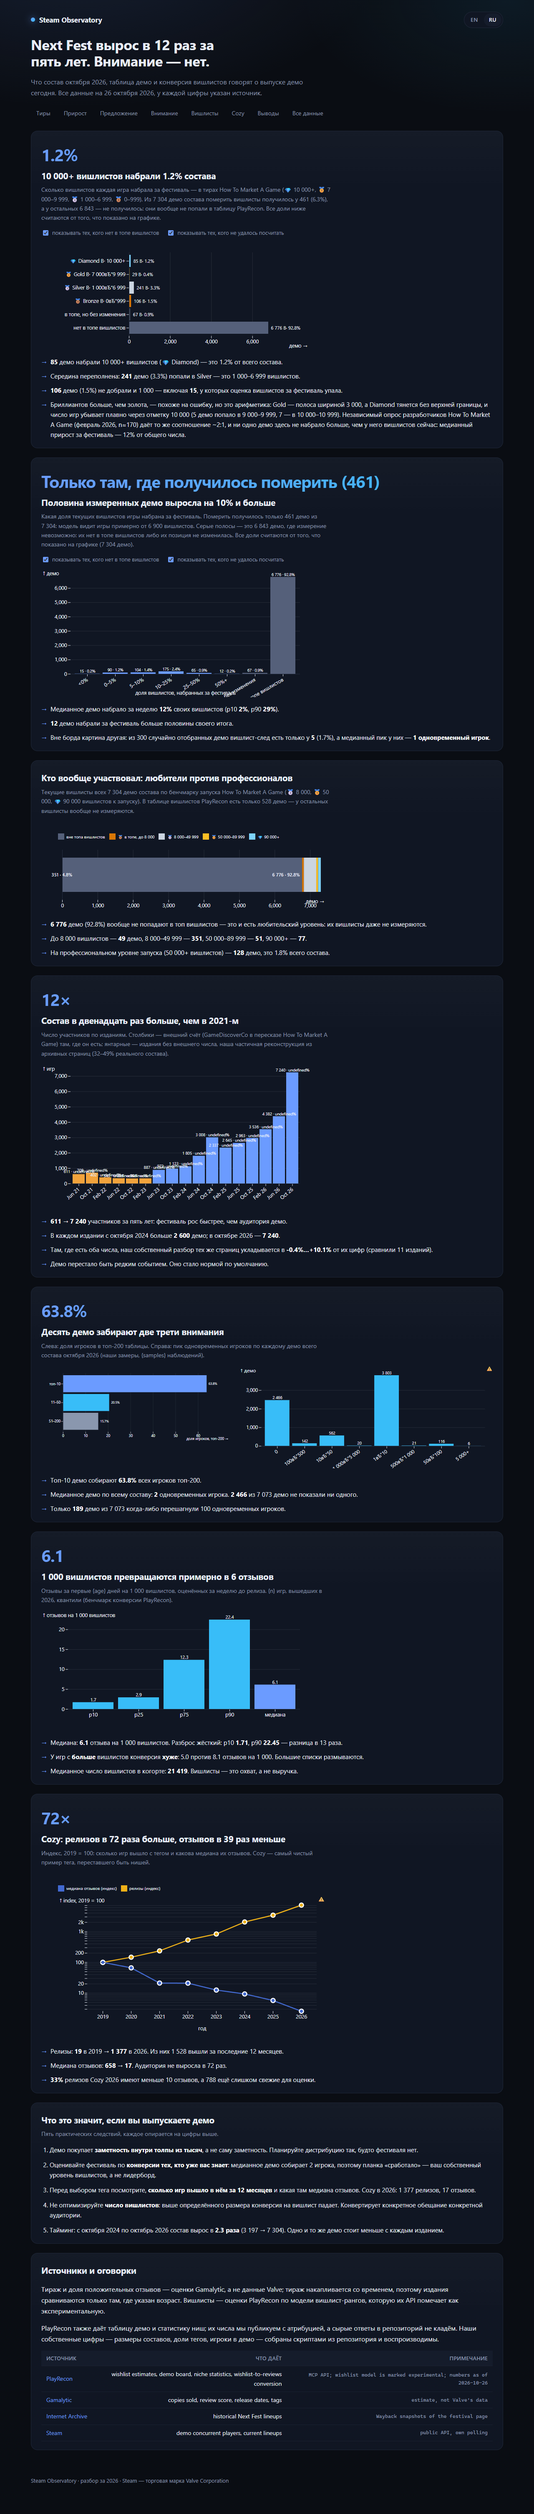
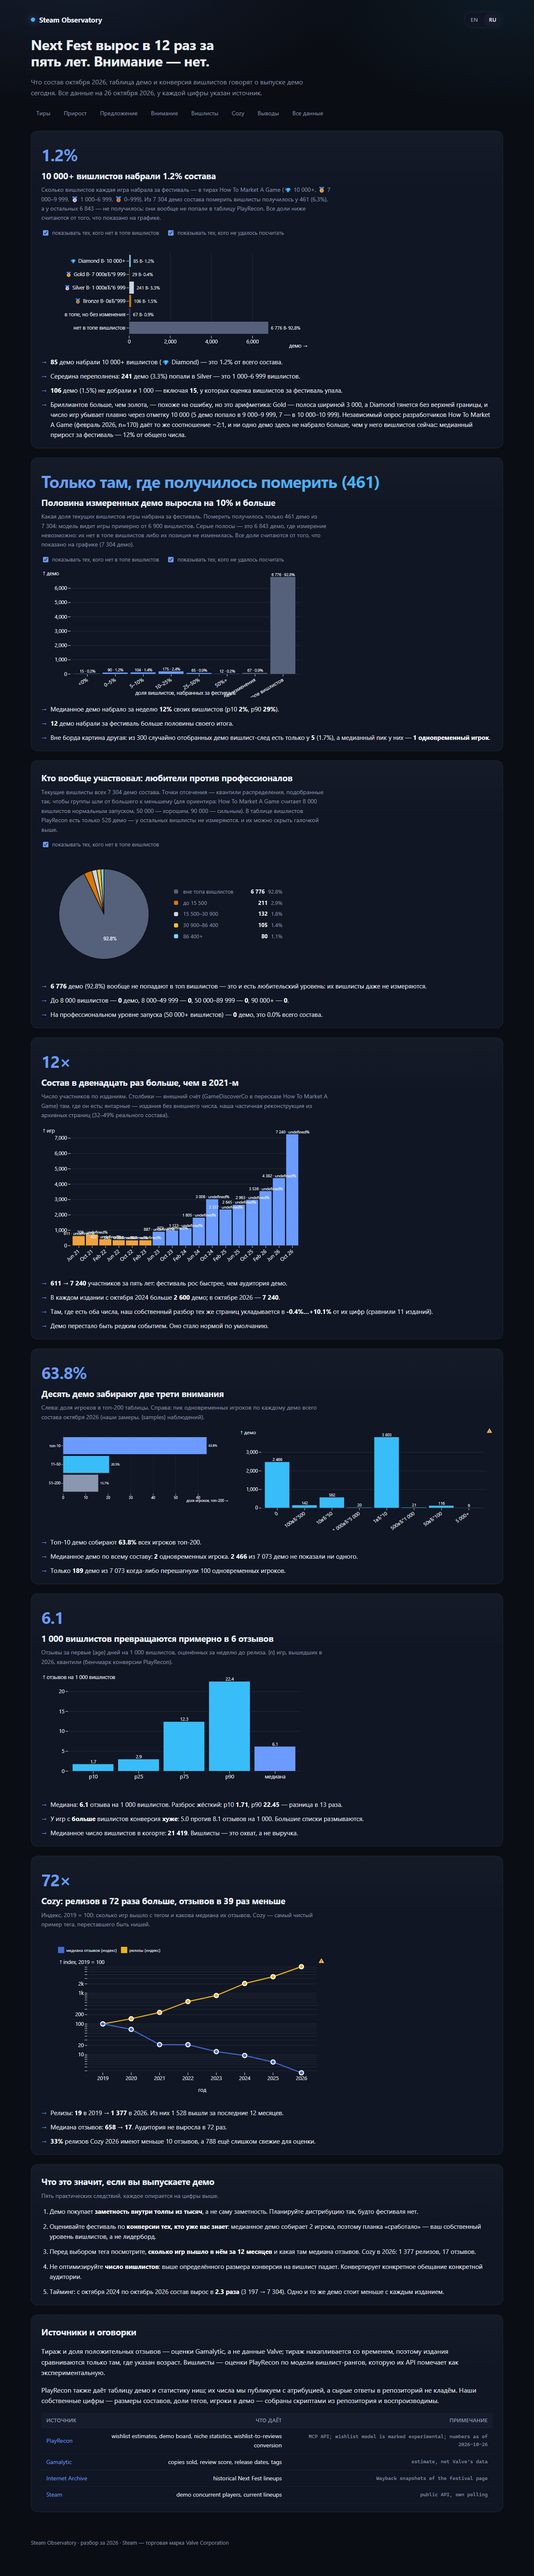
Пай-чарт «кто участвовал» (ручной SVG) и монотонные точки отсечения
- build_story_data: границы бакетов — квантили 40/65/85, подписи с фактическими числами
- результат: 6776 вне топа, 211 / 132 / 105 / 80 в топе (строго по убыванию)
- story: пай-чарт нарисован вручную (Plot.pie в этой сборке падает), своя легенда
- галочка «вне топа» действует и на пай-чарт

diff --git a/site/story.js b/site/story.js
@@ -482,10 +482,10 @@ function renderGains() {
 // цвета долей: серый — вне топа, дальше бронза/серебро/золото/бриллиант
 const WL_COLORS = {
   no_rank: "#55607a",
-  in_under8k: "#d97706",
-  in_8k_50k: "#cbd5e1",
-  in_50k_90k: "#fbbf24",
-  in_90k_plus: "#7dd3fc",
+  in_b0: "#d97706",
+  in_b1: "#cbd5e1",
+  in_b2: "#fbbf24",
+  in_b3: "#7dd3fc",
 };
 
 function renderWl() {
@@ -493,56 +493,68 @@ function renderWl() {
   const data = b.wl_now;
   if (!data || !data.buckets) return;
   const total = data.total || data.buckets.reduce((sum, r) => sum + r.games, 0);
-  const rows = data.buckets.map((r) => ({
+  // «вне топа» можно скрыть той же галочкой, что и в графике тиров
+  const shown = data.buckets.filter((r) => r.key !== "no_rank" || showNoRank);
+  const shownTotal = shown.reduce((sum, r) => sum + r.games, 0) || 1;
+  const rows = shown.map((r) => ({
     key: r.key,
-    label: t(`wl_${r.key}`),
+    label: r.label || t(`wl_${r.key}`),
     games: r.games,
-    share: (100 * r.games) / total,
+    share: (100 * r.games) / shownTotal,
   }));
   el("#hint-wl").innerHTML = t("wl_hint", {
     total: fmt(total),
     in_chart: fmt(data.in_chart),
   });
   try {
-    el("#chart-wl").replaceChildren(
-      plot({
-        height: 140,
-        marginTop: 10,
-        marginBottom: 10,
-        marginLeft: 10,
-        marginRight: 10,
-        y: { axis: null },
-        x: { label: t("wl_axis"), grid: true },
-        color: {
-          domain: rows.map((d) => d.label),
-          range: rows.map((d) => WL_COLORS[d.key]),
-          legend: true,
-        },
-        marks: [
-          Plot.barX(rows, {
-            x: "games",
-            y: () => "",
-            fill: "label",
-            insetTop: 8,
-            insetBottom: 8,
-          }),
-          Plot.text(
-            rows.filter((d) => d.share >= 4),
-            {
-              x: "games",
-              y: () => "",
-              text: (d) => `${fmt(d.games)} · ${d.share.toFixed(1)}%`,
-              dx: -6,
-              textAnchor: "end",
-              fill: "#0a0d13",
-              fontSize: 11,
-              fontWeight: 600,
-            }
-          ),
-          Plot.ruleX([0], { stroke: T.grid }),
-        ],
-      })
-    );
+    // пай-чарт рисуем сами: Plot.pie в этой сборке Plot бросает исключение
+    const R = 108;
+    const cx = 150;
+    const cy = 140;
+    let angle = -Math.PI / 2;
+    const parts = [];
+    for (const r of rows) {
+      const frac = r.games / shownTotal;
+      const next = angle + frac * 2 * Math.PI;
+      const x1 = cx + R * Math.cos(angle);
+      const y1 = cy + R * Math.sin(angle);
+      const x2 = cx + R * Math.cos(next);
+      const y2 = cy + R * Math.sin(next);
+      const large = frac > 0.5 ? 1 : 0;
+      const d = [
+        `M${cx},${cy}`,
+        `L${x1.toFixed(1)},${y1.toFixed(1)}`,
+        `A${R},${R} 0 ${large} 1 ${x2.toFixed(1)},${y2.toFixed(1)}`,
+        "Z",
+      ].join(" ");
+      parts.push(
+        `<path d="${d}" fill="${WL_COLORS[r.key] || "#55607a"}" stroke="#0a0d13" stroke-width="1.5">` +
+          `<title>${r.label}: ${fmt(r.games)} (${r.share.toFixed(1)}%)</title></path>`
+      );
+      if (frac >= 0.06) {
+        const mid = (angle + next) / 2;
+        const lx = cx + R * 0.6 * Math.cos(mid);
+        const ly = cy + R * 0.6 * Math.sin(mid);
+        const ink = r.key === "no_rank" ? T.text : "#0a0d13";
+        parts.push(
+          `<text x="${lx.toFixed(1)}" y="${ly.toFixed(1)}" text-anchor="middle" ` +
+            `fill="${ink}" font-size="11.5" font-weight="600">${r.share.toFixed(1)}%</text>`
+        );
+      }
+      angle = next;
+    }
+    const legend = rows
+      .map(
+        (r) =>
+          `<div class="pie-row"><span class="pie-dot" style="background:${
+            WL_COLORS[r.key] || "#55607a"
+          }"></span><span>${r.label}</span><b>${fmt(r.games)}</b><i>${r.share.toFixed(1)}%</i></div>`
+      )
+      .join("");
+    el("#chart-wl").innerHTML =
+      `<div class="pie-wrap">` +
+      `<svg width="300" height="280" viewBox="0 0 300 280" role="img">${parts.join("")}</svg>` +
+      `<div class="pie-legend">${legend}</div></div>`;
   } catch (err) {
     // график не должен ломать остальную страницу
     console.error("[story] график вишлистов не нарисован:", err);
@@ -577,6 +589,7 @@ function setupSwitch() {
         else showNoJump = box.checked;
         renderTiers();
         renderGains();
+        renderWl();
         setupSwitch();
       };
     }

diff --git a/site/story-i18n.js b/site/story-i18n.js
@@ -33,7 +33,7 @@ export const S = {
     gains_b3: "Outside the board it is a different story: of {sampled} randomly sampled demos, only <b>{with_rank}</b> ({trace}%) have any wishlist trace at all, and their median peak was <b>{median} concurrent player</b>.",
     wl_title: "Who actually took part: hobby projects vs professional ones",
     wl_hint:
-      "Current wishlists of all {total} lineup demos, split by the launch benchmarks of How To Market A Game (🥈 8,000, 🥇 50,000, 💎 90,000 wishlists at launch). Only {in_chart} demos appear in PlayRecon's wishlist chart at all — for the rest no wishlists are measurable.",
+      "Current wishlists of all {total} lineup demos. Cut points are quantiles of the wishlist distribution, chosen so the groups run from the largest to the smallest (for reference, How To Market A Game puts a decent launch at 8,000, a good one at 50,000 and a strong one at 90,000 wishlists). Only {in_chart} demos appear in PlayRecon's wishlist chart at all — the rest have no measurable wishlists and can be hidden with the checkbox above.",
     wl_no_rank: "outside the wishlist top",
     wl_in_under8k: "🥉 in the top, under 8,000",
     wl_in_8k_50k: "🥈 8,000–49,999",
@@ -153,7 +153,7 @@ export const S = {
     gains_b3: "Вне борда картина другая: из {sampled} случайно отобранных демо вишлист-след есть только у <b>{with_rank}</b> ({trace}%), а медианный пик у них — <b>{median} одновременный игрок</b>.",
     wl_title: "Кто вообще участвовал: любители против профессионалов",
     wl_hint:
-      "Текущие вишлисты всех {total} демо состава по бенчмарку запуска How To Market A Game (🥈 8 000, 🥇 50 000, 💎 90 000 вишлистов к запуску). В таблице вишлистов PlayRecon есть только {in_chart} демо — у остальных вишлисты вообще не измеряются.",
+      "Текущие вишлисты всех {total} демо состава. Точки отсечения — квантили распределения, подобранные так, чтобы группы шли от большего к меньшему (для ориентира: How To Market A Game считает 8 000 вишлистов нормальным запуском, 50 000 — хорошим, 90 000 — сильным). В таблице вишлистов PlayRecon есть только {in_chart} демо — у остальных вишлисты не измеряются, и их можно скрыть галочкой выше.",
     wl_no_rank: "вне топа вишлистов",
     wl_in_under8k: "🥉 в топе, до 8 000",
     wl_in_8k_50k: "🥈 8 000–49 999",

diff --git a/site/style.css b/site/style.css
@@ -152,6 +152,15 @@ h3 { font-size: 15px; margin: 24px 0 10px; color: var(--text); font-weight: 600;
 }
 .toggles label { display: inline-flex; align-items: center; gap: 6px; cursor: pointer; }
 .toggles input { accent-color: var(--accent); }
+
+/* пай-чарт «кто участвовал»: рисуем вручную, поэтому и легенду верстаем сами */
+.pie-wrap { display: flex; flex-wrap: wrap; align-items: center; gap: 18px; }
+.pie-legend { display: flex; flex-direction: column; gap: 6px; min-width: 260px; }
+.pie-row { display: grid; grid-template-columns: 14px 1fr auto auto; gap: 8px; align-items: center;
+  font-size: 13px; color: var(--muted); }
+.pie-row b { color: var(--text); font-variant-numeric: tabular-nums; }
+.pie-row i { color: var(--muted); font-style: normal; font-variant-numeric: tabular-nums; }
+.pie-dot { width: 10px; height: 10px; border-radius: 3px; display: inline-block; }
 .chart svg [aria-label="tip"] path { fill: var(--panel-2); stroke: var(--line); }
 
 .chart svg [aria-label="tip"] text,

diff --git a/site/story.html b/site/story.html
@@ -57,6 +57,9 @@
   <section id="wl">
     <h2 data-i18n="wl_title"></h2>
     <p class="hint" id="hint-wl"></p>
+    <div class="toggles" id="wl-toggles">
+      <label><input type="checkbox" id="show-no-rank-3" data-toggle="no-rank" checked> <span data-i18n="toggle_no_rank"></span></label>
+    </div>
     <div id="chart-wl" class="chart"><div class="skel skel-chart-sm"></div></div>
     <ul class="takeaways" id="take-wl"></ul>
   </section>

diff --git a/scripts/build_story_data.py b/scripts/build_story_data.py
@@ -245,30 +245,43 @@ try:
     spec.loader.exec_module(mod)
     board_rows = [r for r in mod.load_rows() if r.get("wl_est")]
 
-    def _bucket(est: int) -> str:
-        if est < 8_000:
-            return "in_under8k"
-        if est < 50_000:
-            return "in_8k_50k"
-        if est < 90_000:
-            return "in_50k_90k"
-        return "in_90k_plus"
+    ests = sorted(r["wl_est"] for r in board_rows)
+    n_est = len(ests)
 
-    counts: dict[str, int] = {}
-    for r in board_rows:
-        key = _bucket(r["wl_est"])
-        counts[key] = counts.get(key, 0) + 1
+    def cut(q: float) -> int:
+        return ests[min(n_est - 1, int(q * n_est))]
+
+    # границы берём как квантили, чтобы корзины шли строго от большего к меньшему
+    bounds = [cut(0.40), cut(0.65), cut(0.85)]
+
+    def _bucket(est: int) -> int:
+        for i, edge in enumerate(bounds):
+            if est < edge:
+                return i
+        return len(bounds)
+
+    def num(value: int) -> str:
+        return f"{value:,}".replace(",", " ")
+
+    bucket_labels = [
+        f"до {num(bounds[0])}",
+        f"{num(bounds[0])}–{num(bounds[1])}",
+        f"{num(bounds[1])}–{num(bounds[2])}",
+        f"{num(bounds[2])}+",
+    ]
+    counts = [0] * (len(bounds) + 1)
+    for est in ests:
+        counts[_bucket(est)] += 1
     lineup_n = fests_final.get("oct2026") or 0
     wl_now = {
-        "buckets": [
-            {"key": "no_rank", "games": max(0, lineup_n - len(board_rows))},
-            {"key": "in_under8k", "games": counts.get("in_under8k", 0)},
-            {"key": "in_8k_50k", "games": counts.get("in_8k_50k", 0)},
-            {"key": "in_50k_90k", "games": counts.get("in_50k_90k", 0)},
-            {"key": "in_90k_plus", "games": counts.get("in_90k_plus", 0)},
+        "buckets": [{"key": "no_rank", "games": max(0, lineup_n - n_est)}]
+        + [
+            {"key": f"in_b{i}", "label": bucket_labels[i], "games": counts[i]}
+            for i in range(len(bounds) + 1)
         ],
         "total": lineup_n,
-        "in_chart": len(board_rows),
+        "in_chart": n_est,
+        "bounds": bounds,
     }
     if tiers_block is not None:
         tiers_block["wl_now"] = wl_now

diff --git a/scripts/validate_story.py b/scripts/validate_story.py
@@ -117,14 +117,16 @@ with sync_playwright() as pw:
     gains_bars = page.eval_on_selector_all("#chart-gains svg rect", "els => els.length")
     check("в графике долей шесть бакетов плюс две серые полосы", gains_bars >= 8,
           f"полос={gains_bars}")
-    wl_slices = page.eval_on_selector_all("#chart-wl svg rect", "els => els.length")
-    check("в графике вишлистов пять долей", wl_slices >= 5, f"долей={wl_slices}")
+    wl_slices = page.eval_on_selector_all("#chart-wl svg path", "els => els.length")
+    check("в пай-чарте пять долей", wl_slices >= 5, f"долей={wl_slices}")
     wl_texts = page.eval_on_selector_all("#chart-wl svg text", "els => els.map(e => e.textContent)")
     check("подписи долей содержат проценты",
           any("%" in x for x in wl_texts), str(wl_texts[:4]))
     wl_hint = page.text_content("#hint-wl") or ""
     check("в подписи пай-чарта есть пороги и число участников",
           "8,000" in wl_hint and "7,304" in wl_hint, wl_hint[:70])
+    legend_rows = page.eval_on_selector_all("#chart-wl .pie-row", "els => els.length")
+    check("у пай-чарта своя легенда из пяти строк", legend_rows >= 5, f"строк={legend_rows}")
 
     gains_labels = page.eval_on_selector_all(
         "#chart-gains svg text", "els => els.map(e => e.textContent)")

diff --git a/scripts/_scan_encoding.py b/scripts/_scan_encoding.py
@@ -1,0 +1,27 @@
+"""Найти строки файла с испорченной кодировкой (двойное кодирование cp1251/utf-8).
+
+Запуск: python scripts/_scan_encoding.py site/story.js
+"""
+
+from __future__ import annotations
+
+import sys
+from pathlib import Path
+
+path = Path(sys.argv[1])
+text = path.read_text(encoding="utf-8")
+
+# признаки двойного кодирования: «Р»/«С» + строчная кириллица, «вЂ», «В·», U+FFFD
+markers = ("В·", "вЂ", "вЂ“", "\ufffd")
+hits = []
+for i, line in enumerate(text.splitlines(), 1):
+    if any(m in line for m in markers):
+        hits.append((i, line))
+    elif "Р" in line or "С" in line:
+        # кириллица в коде может быть только в комментариях/строках — считаем это признаком
+        if any(ch.islower() and "\u0400" <= ch <= "\u04ff" for ch in line):
+            hits.append((i, line))
+
+print(f"строк с признаками порчи: {len(hits)} из {len(text.splitlines())}")
+for i, line in hits[:40]:
+    print(f"{i:5}: {line.strip()[:110]}")
